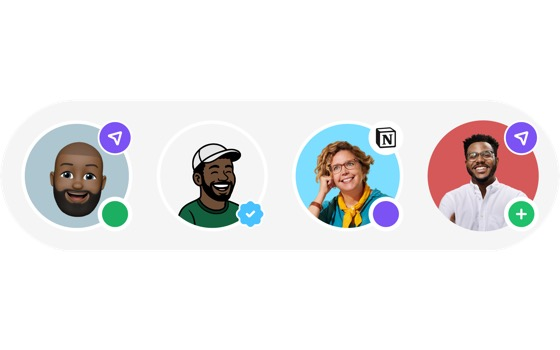
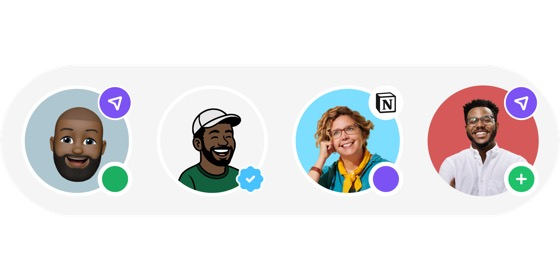
Stop the shot covering the project name
At 16:10 the shot ran to 193px inside a 250px card while the copy started
at 166, so it sat over the name by 27px. The crop is 2:1 now, which keeps
the bleed off the right edge and still clears the copy with room to spare.

The row was also arriving scrolled 164px in, hiding CostGraph: the lazily
loaded shots were shifting it as they arrived and the browser was anchoring
to that. The shots load eagerly now, at 20-32KB each, and the row opts out
of scroll anchoring.

diff --git a/v7/index.html b/v7/index.html
@@ -86,7 +86,7 @@
       </a>
       <a class="card card-luotain" href="https://www.shatermt.com/work/luotain">
         <span class="card-mark"><img src="icons/luotain.svg" alt="" aria-hidden="true" /></span>
-        <span class="card-shot"><img src="shots/luotain.jpg" alt="" aria-hidden="true" loading="lazy" /></span><span class="card-body">
+        <span class="card-shot"><img src="shots/luotain.jpg" alt="" aria-hidden="true" /></span><span class="card-body">
           <span class="card-name">Luotain</span>
           <span class="card-desc">Link and QR analytics. Every code tracks its own scans, and stays editable after it is printed.</span>
         </span>
@@ -100,14 +100,14 @@
       </a>
       <a class="card card-lonar" href="https://www.shatermt.com/work/lonar">
         <span class="card-mark"><img src="icons/lonar.svg" alt="" aria-hidden="true" /></span>
-        <span class="card-shot"><img src="shots/lonar.jpg" alt="" aria-hidden="true" loading="lazy" /></span><span class="card-body">
+        <span class="card-shot"><img src="shots/lonar.jpg" alt="" aria-hidden="true" /></span><span class="card-body">
           <span class="card-name">Lönar</span>
           <span class="card-desc">Invoicing that keeps clients, payments and chasing in one place, so you always know who owes you.</span>
         </span>
       </a>
       <a class="card card-kernui" href="https://www.shatermt.com/work/kernui">
         <span class="card-mark"><img src="icons/kernui.svg" alt="" aria-hidden="true" /></span>
-        <span class="card-shot"><img src="shots/kernui.jpg" alt="" aria-hidden="true" loading="lazy" /></span><span class="card-body">
+        <span class="card-shot"><img src="shots/kernui.jpg" alt="" aria-hidden="true" /></span><span class="card-body">
           <span class="card-name">KernUI</span>
           <span class="card-desc">A design system of 3,000+ components, used by 1,200+ designers and developers.</span>
         </span>

diff --git a/v7/styles.css b/v7/styles.css
@@ -756,6 +756,7 @@ a.album:hover img { transform: translateY(-4px); }
   padding-block: 4px;
   overflow-x: auto;
   overscroll-behavior-x: contain;
+  overflow-anchor: none;
   scrollbar-width: none;
 }
 .cards::-webkit-scrollbar { display: none; }
@@ -994,9 +995,9 @@ a.album:hover img { transform: translateY(-4px); }
   position: absolute;
   z-index: 0;
   left: 16px;
-  top: 52px;
+  top: 46px;
   right: -34px;
-  aspect-ratio: 16 / 10;
+  aspect-ratio: 2 / 1;
   border-radius: 5px;
   overflow: hidden;
   box-shadow:
